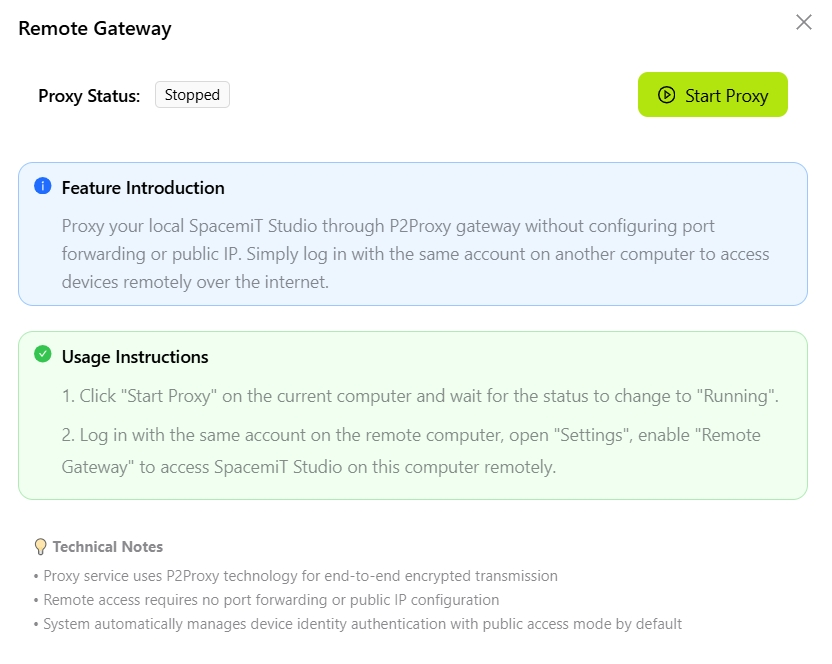
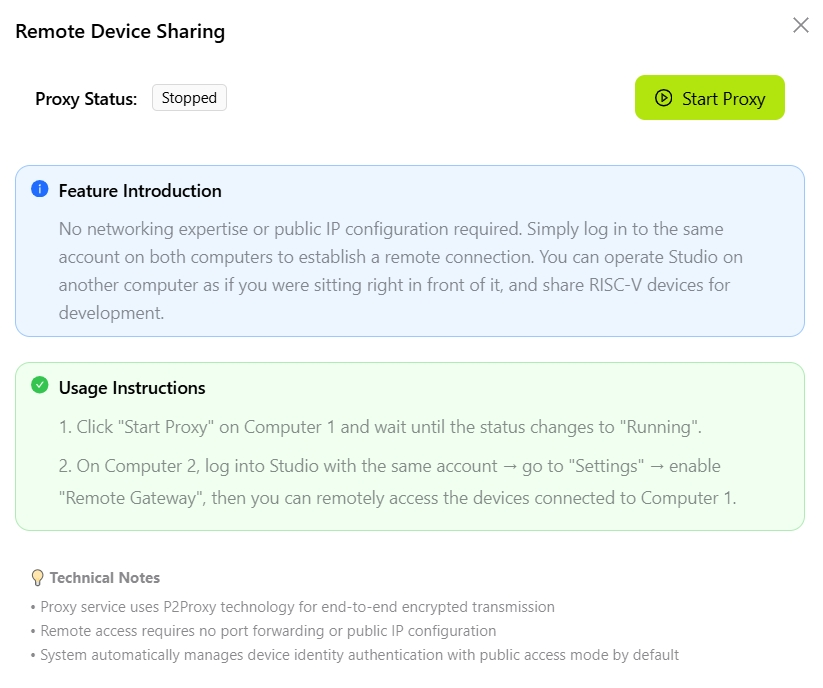
docs: update Studio quick start guide and remote access documentation (#43)
* docs(studio): improve terminal panel file management documentation

- Separate toolbar and context menu descriptions for clarity
- Add missing context menu actions: Copy Path, Open in Terminal, Rename, Delete
- Fix toolbar button descriptions to match actual UI
- Update both Chinese and English versions for parity

* docs(studio): update English UI screenshots

- Update remote_gateway.png with English UI
- Update tool_00.png with English UI

* docs: update Studio quick start guide and remote access documentation

- Updated initial setup screenshots with latest Studio UI
- Enhanced remote gateway configuration images
- Improved device management screenshots
- Updated remote access documentation with clearer instructions
- Synchronized changes across zh/ and en/ versions

diff --git a/zh/studio/user_guide/dev_tools/remote_access.md b/zh/studio/user_guide/dev_tools/remote_access.md
@@ -2,27 +2,27 @@
 sidebar_position: 3
 ---
 
-# 远程网关
+# 远程设备共享
 
-远程网关功能允许用户在未配置公网 IP 或端口转发的情况下，从另一台电脑远程访问当前电脑上的 SpacemiT Studio 和已连接的设备。
+远程设备共享功能允许用户在未配置公网 IP 或端口转发的情况下，从另一台电脑远程访问当前电脑上的 SpacemiT Studio 和已连接的设备。
 
 ## 使用步骤
 
 ### 第 1 步：在当前电脑（电脑 A）启动代理
 
 1. 打开**开发工具**页面，找到**远程访问**类别
-   ![远程网关](../../static/remote_gateway.png)
+   ![远程设备共享](../../static/remote_gateway.png)
 
-2. 点击**远程网关**卡片，打开配置弹窗
-   ![远程网关配置界面](../../static/remote_gateway_00.png)
+2. 点击**远程设备共享**卡片，打开配置弹窗
+   ![远程设备共享配置界面](../../static/remote_gateway_00.png)
 
 3. 点击**启动代理**按钮
 
 4. 等待代理状态变为**运行中**
-    ![远程网关配置界面](../../static/remote_gateway_01.png)
+    ![远程设备共享配置界面](../../static/remote_gateway_01.png)
 
-   **远程网关**卡片状态也同步变为**运行中**
-    ![远程网关运行中](../../static/remote_gateway_02.png)
+   **远程设备共享**卡片状态也同步变为**运行中**
+    ![远程设备共享运行中](../../static/remote_gateway_02.png)
 
    > 代理启动后，当前电脑将作为主机端等待远程访问。
 
@@ -31,14 +31,14 @@ sidebar_position: 3
 1. 在另一台电脑上打开 SpacemiT Studio
 2. 使用**相同账号**登录
 3. 点击左下角**设置**图标
-4. 找到**远程网关**选项并启用
+4. 找到**启用远程设备共享**选项并启用
     ![](../../static/setting_01.png)
 
 5. 启用后，即可访问主机端电脑（电脑 A）上的 Studio 和设备
 
 ## 常见问题
 
-**Q：远程网关连接失败？**
+**Q：远程设备共享连接失败？**
 
 - 确认两台电脑都已登录相同账号
 - 检查代理状态是否为「运行中」

diff --git a/en/studio/user_guide/dev_tools/remote_access.md b/en/studio/user_guide/dev_tools/remote_access.md
@@ -2,9 +2,9 @@
 sidebar_position: 3
 ---
 
-# Remote Gateway
+# Remote Device Sharing
 
-Remote Gateway lets you access SpacemiT Studio and connected devices on another computer — no public IP or port forwarding needed.
+Remote Device Sharing lets you access SpacemiT Studio and connected devices on another computer — no public IP or port forwarding needed.
 
 ## How It Works
 
@@ -15,17 +15,17 @@ Think of it like this: **Computer A** (the one with your devices) starts a proxy
 ### Step 1: Start the Proxy on Computer A (Host)
 
 1. Open the **Development Tools** page and find the **Remote Access** section
-   ![Remote Gateway card](../../static/remote_gateway.png)
+   ![Remote Device Sharing card](../../static/remote_gateway.png)
 
-2. Click the **Remote Gateway** card to open the settings dialog
-   ![Remote Gateway configuration dialog](../../static/remote_gateway_00.png)
+2. Click the **Remote Device Sharing** card to open the settings dialog
+   ![Remote Device Sharing configuration dialog](../../static/remote_gateway_00.png)
 
 3. Click **Start Proxy**
 
 4. Wait for the status to change to **Running**
    ![Proxy running status](../../static/remote_gateway_01.png)
 
-   The **Remote Gateway** card status will also update to **Running**
+   The **Remote Device Sharing** card status will also update to **Running**
    ![Card shows running status](../../static/remote_gateway_02.png)
 
    > Computer A is now ready to accept remote connections.
@@ -35,7 +35,7 @@ Think of it like this: **Computer A** (the one with your devices) starts a proxy
 1. Open SpacemiT Studio on Computer B
 2. Log in using the **same account** as Computer A
 3. Click the **Settings** icon (lower-left corner)
-4. Find **Remote Gateway** and turn it on
+4. Find **Enable remote gateway** and turn it on
    ![Remote Gateway settings toggle](../../static/setting_01.png)
 
 5. You're connected! You can now access Studio and devices on Computer A

diff --git a/en/studio/user_guide/settings.md b/en/studio/user_guide/settings.md
@@ -4,7 +4,7 @@ sidebar_position: 9
 
 # Settings
 
-Click the ⚙ icon to open the Settings page, where the appearance, cache, AI models, and remote gateway for SpacemiT Studio can be configured.
+Click the ⚙ icon to open the Settings page, where the appearance, cache, AI models, and Remote Device Sharing for SpacemiT Studio can be configured.
 
 ![Settings page](../static/setting_00.png)
 
@@ -29,16 +29,16 @@ Click the ⚙ icon to open the Settings page, where the appearance, cache, AI
   - **Model ID**: The identifier used to invoke the model (such as `gpt-4o` or `doubao-seed-1-6`).
   - **Max Tokens**: The maximum number of tokens allowed per request. Leave blank to use the provider's default value.
 
-## Remote Gateway
+## Remote Device Sharing
 
-The Remote Gateway feature allows users to remotely access SpacemiT Studio on other computers.
+The Remote Device Sharing feature allows users to remotely access SpacemiT Studio on other computers.
 
-![Remote gateway settings](../static/setting_01.png)
+![Remote Device Sharing settings](../static/setting_01.png)
 
 - **Disabled (default)**: Access local devices only
 - **Enabled**: When enabled, allows remote access to Studio and connected devices on other computers under the same account
 
-> Before using the Remote Gateway, the proxy service must be started on the host computer from the [Development Tools -> Remote Access](./dev_tools/remote_access.md) page.
+> Before using the Remote Device Sharing, the proxy service must be started on the host computer from the [Development Tools -> Remote Access](./dev_tools/remote_access.md) page.
 
 ## About
 

diff --git a/zh/studio/user_guide/settings.md b/zh/studio/user_guide/settings.md
@@ -4,7 +4,7 @@ sidebar_position: 9
 
 # 设置
 
-点击 ⚙ 图标进入设置页面，可管理 SpacemiT Studio 的外观、缓存、AI 模型及远程网关等配置。
+点击 ⚙ 图标进入设置页面，可管理 SpacemiT Studio 的外观、缓存、AI 模型及远程设备共享等配置。
 
 ![](../static/setting_00.png)
 
@@ -29,16 +29,16 @@ sidebar_position: 9
   - **模型 ID**：实际调用的模型标识符（如 `gpt-4o`、`doubao-seed-1-6`）。
   - **最大 Token**：单次请求允许的最大 Token 数，留空则使用服务商默认值。
 
-## 远程网关
+## 远程设备共享
 
-远程网关功能允许用户远程访问其他电脑上的 SpacemiT Studio。
+远程设备共享功能允许用户远程访问其他电脑上的 SpacemiT Studio。
 
-![远程网关设置](../static/setting_01.png)
+![远程设备共享设置](../static/setting_01.png)
 
 - **关闭（默认）**：仅访问本地设备
 - **开启**：启用后可远程访问相同账号下其他电脑上的 Studio 和已连接设备
 
-> 使用远程网关前，需在主机端电脑的[开发工具 -> 远程访问](./dev_tools/remote_access.md)页面启动代理服务。
+> 使用远程设备共享前，需在主机端电脑的[开发工具 -> 远程访问](./dev_tools/remote_access.md)页面启动代理服务。
 
 ## 关于
 

diff --git a/en/studio/user_guide/dev_tools/index.md b/en/studio/user_guide/dev_tools/index.md
@@ -14,5 +14,5 @@ The Development Tools page provides three categories of tools: Flash Tools, Syst
 - [System Tools](./system_tools.md):
   System preconfiguration, port forwarding, and serial connection
 
-- [Remote Gateway](./remote_access.md):
+- [Remote Device Sharing](./remote_access.md):
   Cross-network device access through P2Proxy gateway

diff --git a/zh/studio/user_guide/dev_tools/index.md b/zh/studio/user_guide/dev_tools/index.md
@@ -14,5 +14,5 @@ sidebar_position: 3
 - [系统工具](./system_tools.md)：
   系统预配置、端口转发、串口连接
 
-- [远程网关](./remote_access.md)：
+- [远程设备共享](./remote_access.md)：
   通过 P2Proxy 网关实现跨网络访问设备
